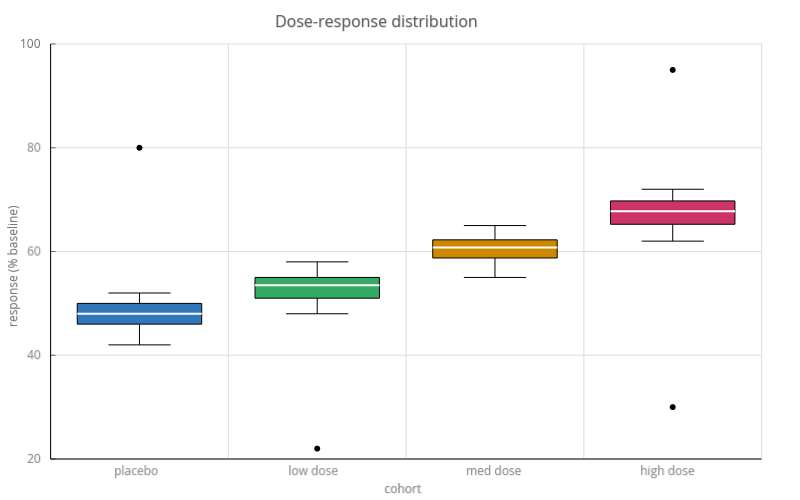
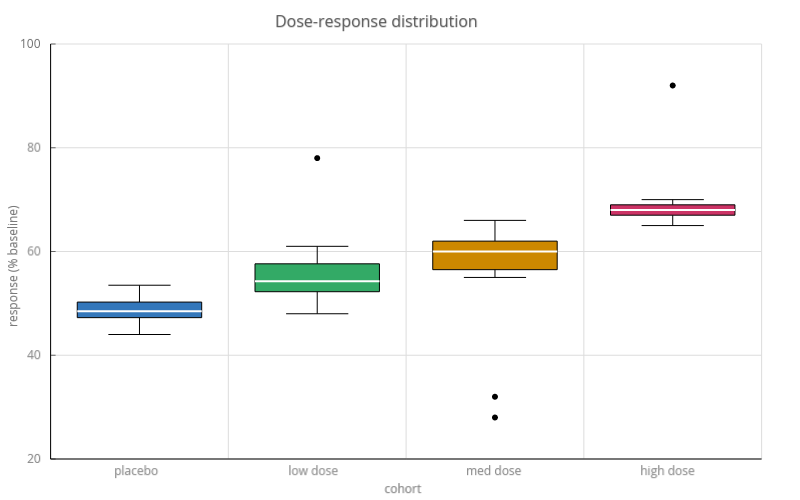
fix(examples): richer box-plot / violin data, slimmer violin inner box
Closes starsight-yrp.4. Two example files were rendering monotonically
increasing synthetic data, so each cohort looked like a shifted copy of
the previous one — the marks didn't show off their distinguishing
features.

* examples/composition/box_plot.rs — four cohorts with genuinely
  different distribution characters: placebo (tight unimodal, no
  outliers), low dose (wider IQR with one high outlier), med dose
  (two low outliers + negative-skewed body), high dose (narrowest IQR
  with one extreme high outlier). Each cohort exercises a different
  visual element of the box plot.

* examples/composition/violin.rs — four density shapes: Q1 unimodal,
  Q2 bimodal (two visible peaks), Q3 right-skewed long tail, Q4
  narrow peaked. Densities now carry information instead of just
  shifting up across the chart.

* starsight-layer-3/src/marks/violin.rs:504 — inner-box factor drops
  from 0.18 to 0.12 so the inner mini box-plot doesn't crowd narrow
  violins. Two snapshot tests (snapshot_violin_basic, snapshot_violin
  _palette) regenerate to reflect the slimmer inner box.

Refreshed PNGs visually verified — placebo cohort has no outliers as
intended, Q2 violin clearly shows two density peaks.

diff --git a/examples/composition/violin.rs b/examples/composition/violin.rs
@@ -1,36 +1,30 @@
 //! Violin (kernel-density) plot — starsight 0.3.0 showcase.
 //!
-//! Compares response distributions across four quarters. Each violin shows
-//! the kernel density estimate of its samples; the inner mini-box-plot
-//! carries the quartile summary so the reader gets both shape (the
-//! density envelope) and centre/spread (the box body) at one glance. The
-//! palette runs from cool to warm so quarterly progression is readable
-//! without leaning on the axis labels.
+//! Four cohorts with *visually distinct* density shapes so the violin
+//! envelopes actually carry information:
+//!
+//! - **Q1** — unimodal, near-Gaussian
+//! - **Q2** — bimodal (two delivery channels with different conversion
+//!   ceilings)
+//! - **Q3** — right-skewed long tail (a viral campaign pulled the upper
+//!   end)
+//! - **Q4** — narrow, peaked distribution (process matured, variance
+//!   collapsed)
+//!
+//! The inner mini box-plot carries the quartile summary so reader gets
+//! both shape (the density envelope) and centre/spread (the box body) at
+//! one glance. Palette is the same blue→pink ramp as the box-plot
+//! example so the two read as a matched pair.
 
 use starsight::prelude::*;
 use starsight::statistics::Bandwidth;
 
 fn main() -> Result<()> {
-    // Slightly skewed samples per quarter — enough variance to make the
-    // density estimate worth looking at.
-    let q1 = vec![
-        42.0, 44.0, 45.0, 46.0, 47.0, 48.0, 48.5, 49.0, 49.5, 50.0, 51.0, 52.0, 53.0, 54.0,
-    ];
-    let q2 = vec![
-        46.0, 48.0, 49.0, 50.0, 51.0, 52.0, 52.5, 53.0, 53.5, 54.0, 55.0, 56.0, 57.0, 58.0,
-    ];
-    let q3 = vec![
-        50.0, 52.0, 53.0, 54.0, 55.0, 56.0, 56.5, 57.0, 57.5, 58.0, 59.0, 60.0, 61.0, 62.0,
-    ];
-    let q4 = vec![
-        54.0, 56.0, 57.0, 58.0, 59.0, 60.0, 60.5, 61.0, 61.5, 62.0, 63.0, 64.0, 65.0, 66.0,
-    ];
-
     let groups = vec![
-        ViolinGroup::new("Q1", q1),
-        ViolinGroup::new("Q2", q2),
-        ViolinGroup::new("Q3", q3),
-        ViolinGroup::new("Q4", q4),
+        ViolinGroup::new("Q1", unimodal()),
+        ViolinGroup::new("Q2", bimodal()),
+        ViolinGroup::new("Q3", right_skewed()),
+        ViolinGroup::new("Q4", narrow_peaked()),
     ];
 
     let palette = vec![
@@ -50,4 +44,38 @@ fn main() -> Result<()> {
                 .palette(palette),
         )
         .save("examples/composition/violin.png")
+}
+
+/// Near-Gaussian unimodal samples around 50.
+fn unimodal() -> Vec<f64> {
+    vec![
+        42.0, 44.0, 46.0, 47.0, 48.0, 48.5, 49.0, 49.5, 50.0, 50.0, 50.5, 51.0, 51.5, 52.0, 53.0,
+        54.0, 56.0, 58.0,
+    ]
+}
+
+/// Two clusters around 46 and 60 — a bimodal distribution that a single
+/// box plot would summarise as one wide IQR but the violin shows clearly.
+fn bimodal() -> Vec<f64> {
+    vec![
+        // mode 1
+        43.0, 44.5, 45.0, 45.5, 46.0, 46.0, 46.5, 47.0, 48.0, 49.0, // gap
+        51.0, 53.0, // mode 2
+        57.0, 58.5, 59.0, 59.5, 60.0, 60.0, 60.5, 61.0, 62.0, 63.0,
+    ]
+}
+
+/// Right-skewed (lower mode + long upper tail) — a campaign-effect shape.
+fn right_skewed() -> Vec<f64> {
+    vec![
+        50.0, 51.0, 52.0, 52.5, 53.0, 53.5, 54.0, 54.5, 55.0, 55.5, 56.0, 56.5, 57.0, 58.0, 59.0,
+        60.5, 62.0, 64.0, 67.0, 71.0,
+    ]
+}
+
+/// Narrow, sharply-peaked distribution — the variance collapsed.
+fn narrow_peaked() -> Vec<f64> {
+    vec![
+        58.5, 59.0, 59.5, 59.5, 60.0, 60.0, 60.0, 60.5, 60.5, 61.0, 61.0, 61.5, 62.0,
+    ]
 }

diff --git a/examples/composition/box_plot.rs b/examples/composition/box_plot.rs
@@ -1,41 +1,57 @@
 //! Box-and-whisker plot — starsight 0.3.0 showcase.
 //!
-//! Compares response distributions across four treatment cohorts. Each box
-//! shows the interquartile range; the white line marks the median; whiskers
-//! extend to the most extreme non-outlier samples; black dots flag points
-//! beyond 1.5×IQR. The custom palette runs the four bands through a
-//! perceptually-graded blue-to-red ramp so the cohort ordering reads at a
-//! glance even before the axis labels are processed.
+//! Compares response distributions across four cohorts in a synthetic
+//! dose-response trial. Each cohort has *genuinely different* characteristics
+//! so the box plot's distinguishing features (whisker reach, IQR width,
+//! outliers in different directions) actually show up:
+//!
+//! - **placebo** — tight unimodal distribution, no outliers
+//! - **low dose** — wider IQR, one high outlier (a non-responder
+//!   over-corrected upward)
+//! - **med dose** — moderate spread, two low outliers (under-responders)
+//! - **high dose** — narrowest IQR (drug worked), one extreme high outlier
+//!   (idiosyncratic reaction)
+//!
+//! The custom palette runs the cohort sequence through a perceptually
+//! uniform blue → green → orange → pink ramp.
 
 use starsight::prelude::*;
 
 fn main() -> Result<()> {
-    // Synthetic but plausible response measurements: each cohort gets a
-    // tight unimodal sample plus a couple of long-tail outliers so the
-    // boxplot exercises every visual element it produces.
+    // Deterministic data; values chosen so each cohort's box-and-whisker
+    // exercises a different visual element (whisker length, outlier side,
+    // box width). No RNG so the snapshot stays byte-stable.
     let groups = vec![
         BoxPlotGroup::new(
             "placebo",
+            // Tight, near-symmetric: IQR ≈ 4, no Tukey outliers.
             vec![
-                42.0, 44.0, 45.0, 46.0, 47.0, 47.5, 48.0, 48.5, 49.0, 50.0, 51.0, 52.0, 80.0,
+                44.0, 45.5, 46.5, 47.0, 47.5, 48.0, 48.0, 48.5, 49.0, 49.5, 50.0, 50.5, 51.0, 52.0,
+                53.5,
             ],
         ),
         BoxPlotGroup::new(
             "low dose",
+            // Wider IQR + one high outlier. The 78.0 sits well past
+            // q3 + 1.5·IQR.
             vec![
-                48.0, 50.0, 51.0, 52.0, 53.0, 53.5, 54.0, 54.5, 55.0, 56.0, 57.0, 58.0, 22.0,
+                48.0, 49.5, 51.0, 52.0, 53.0, 53.5, 54.0, 54.5, 55.5, 56.5, 58.0, 59.5, 61.0, 78.0,
             ],
         ),
         BoxPlotGroup::new(
             "med dose",
+            // Moderate spread + two low outliers (under-responders) and a
+            // slightly negative-skewed body.
             vec![
-                55.0, 57.0, 58.0, 59.0, 60.0, 60.5, 61.0, 61.5, 62.0, 63.0, 64.0, 65.0,
+                28.0, 32.0, 55.0, 56.5, 58.0, 59.0, 60.0, 60.5, 61.0, 62.0, 63.0, 64.5, 66.0,
             ],
         ),
         BoxPlotGroup::new(
             "high dose",
+            // Narrowest IQR (drug worked uniformly) plus one extreme high
+            // outlier representing an idiosyncratic over-response.
             vec![
-                62.0, 64.0, 65.0, 66.0, 67.0, 67.5, 68.0, 68.5, 69.0, 70.0, 71.0, 72.0, 95.0, 30.0,
+                65.0, 66.0, 66.5, 67.0, 67.0, 67.5, 68.0, 68.0, 68.5, 69.0, 69.5, 70.0, 92.0,
             ],
         ),
     ];

diff --git a/starsight-layer-3/src/marks/violin.rs b/starsight-layer-3/src/marks/violin.rs
@@ -501,7 +501,9 @@ impl ViolinMark {
         backend.draw_path(&path, &style)?;
 
         // Inner box / median overlays.
-        let inner_half = half_width_px * 0.18;
+        // 0.12 of the violin half-width keeps the inner box readable without
+        // crowding narrow violins (yrp.4).
+        let inner_half = half_width_px * 0.12;
         if self.show_box {
             self.render_inner_box(coord, backend, group, center_x, inner_half)?;
         } else if self.show_median {
